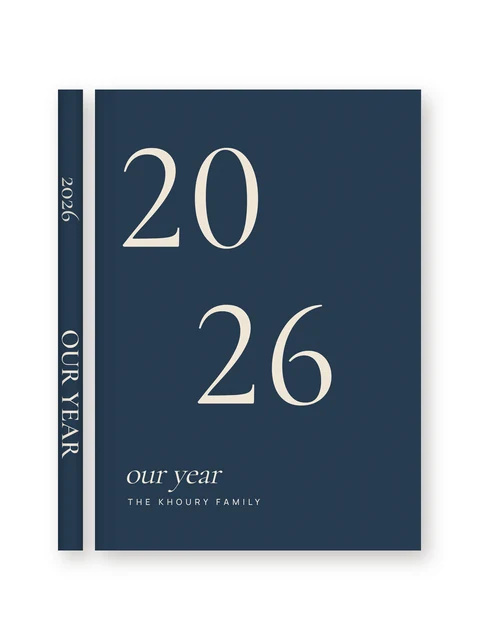
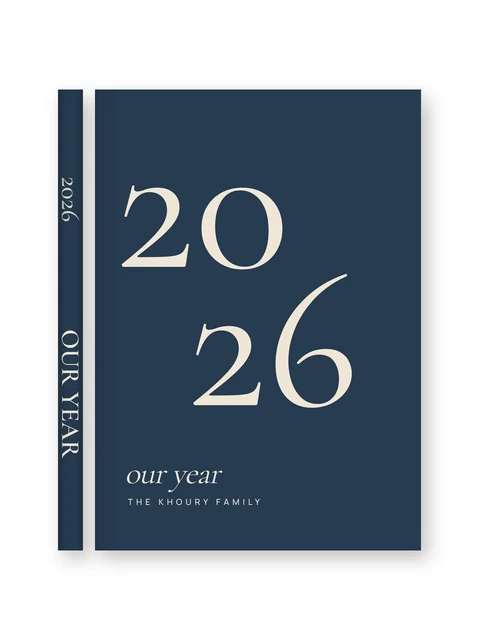
Templates: 2026 Big Numbers in the serif's classic figures, larger
Claude-Session: https://claude.ai/code/session_019iW3qNmH4N4x87DfLWtU9k

Changed region(s): [[0.25, 0.2188, 0.5938, 0.4375], [0.4062, 0.4375, 0.75, 0.6562], [0.6875, 0.4062, 0.7188, 0.4375]]

diff --git a/frontend/src/lib/coverThemes.js b/frontend/src/lib/coverThemes.js
@@ -779,8 +779,8 @@ export const COVER_THEMES = [
           spine_caption_weight: "600",
           spine_caption_y: 0.62,
           extra_items: [
-            textItem("year-start", "20", { x: 0.07, y: 0.04, w: 0.66, h: 0.4, font: CORMORANT, font_weight: "400", font_size: 205, lining_numerals: true, color: "#EFE6D6" }),
-            textItem("year-end", "26", { x: 0.3, y: 0.38, w: 0.66, h: 0.4, font: CORMORANT, font_weight: "400", font_size: 205, lining_numerals: true, color: "#EFE6D6" }),
+            textItem("year-start", "20", { x: 0.06, y: 0.0, w: 0.8, h: 0.5, font: CORMORANT, font_weight: "400", font_size: 262, color: "#EFE6D6" }),
+            textItem("year-end", "26", { x: 0.28, y: 0.3, w: 0.7, h: 0.5, font: CORMORANT, font_weight: "400", font_size: 262, color: "#EFE6D6" }),
             textItem("name", "THE KHOURY FAMILY", { x: 0.09, y: 0.885, w: 0.8, h: 0.035, font: MANROPE, font_weight: "500", font_size: 11, letter_spacing: 0.4, color: "#EFE6D6" }),
           ],
         },
